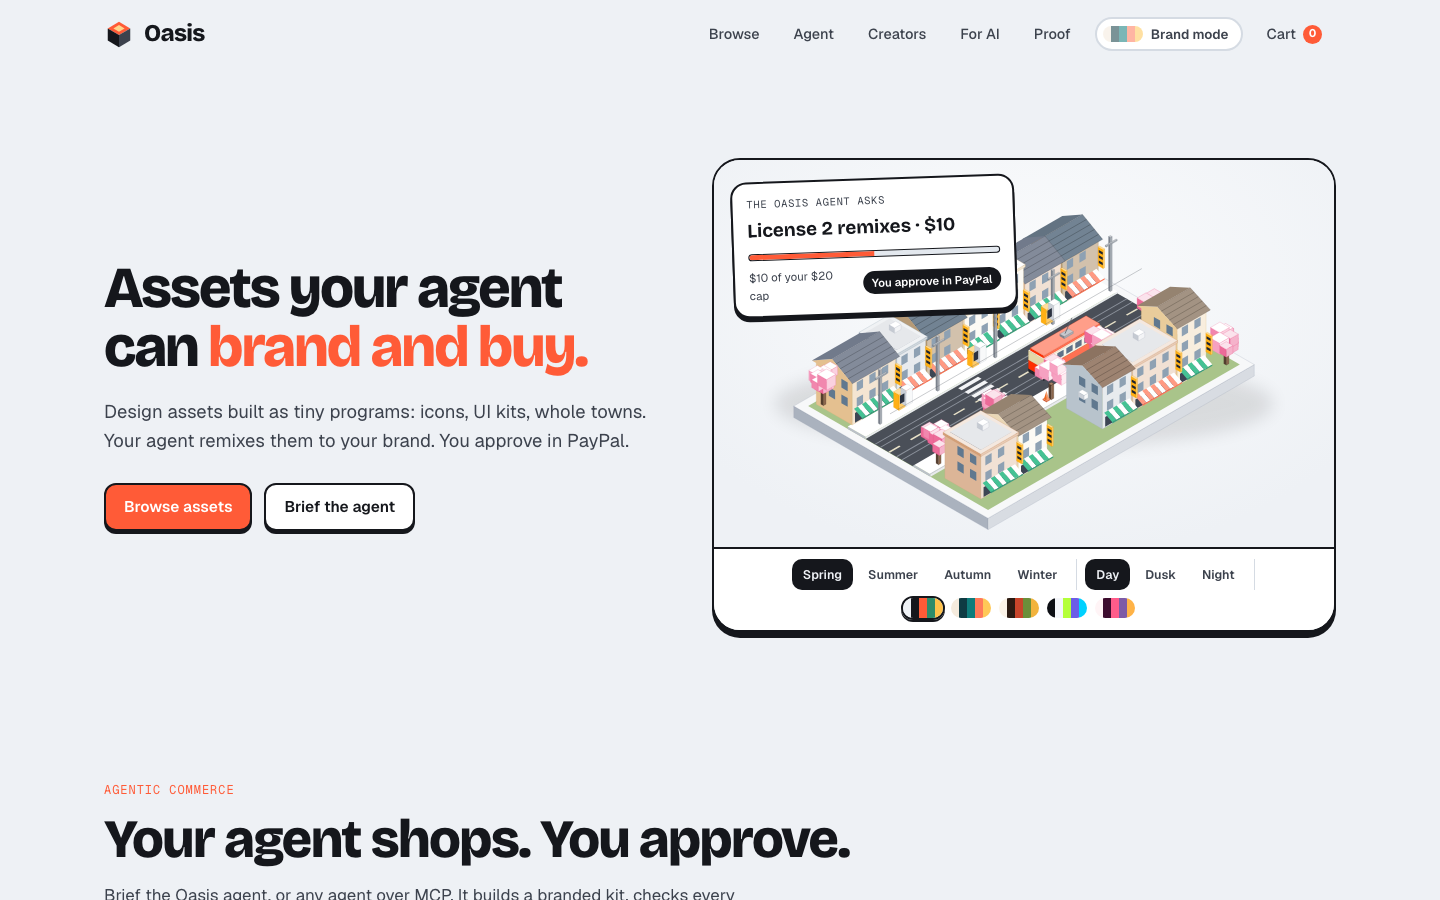
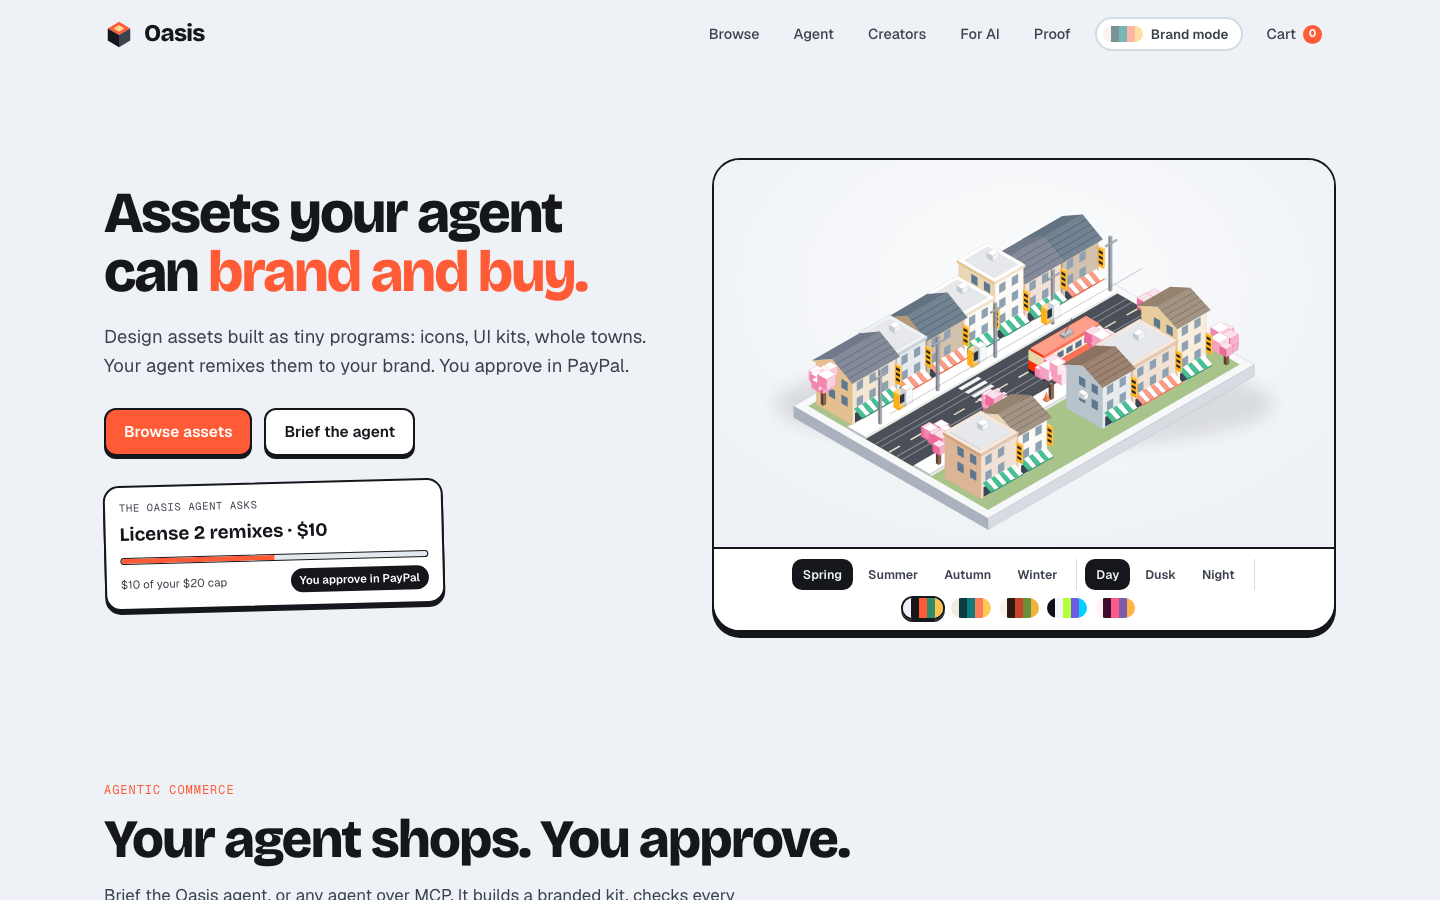
npm run sandbox-demo; pricing card copy knobs; agent replay ends at the order and can fill your cart
- scripts/sandbox-demo.mjs: mandate, refused over-budget order, approve in PayPal, capture, licensed download,
  refund revoking the licence, fork-of-a-fork Payouts batch; writes every PayPal ID to docs/SANDBOX-RUN.md
- Pricing card: tagline and comma-separated feature knobs (escaped), so a kit ships with its own copy
- Agent replay stops where the PayPal order opens; 'Add this kit to my cart' resolves the empty-cart mismatch
- PAYPAL.md: Commerce Platform split labelled future work

Changed region(s): [[0.0625, 0.2178, 0.4375, 0.6844], [0.5, 0.1867, 0.7188, 0.3733]]

diff --git a/public/app.js b/public/app.js
@@ -645,10 +645,15 @@ function pageAgent() {
     const items = replayKit || cart.items;
     const total = items.reduce((s, i) => s + i.price, 0);
     $("#kit").innerHTML = items.length
-      ? `<div class="kit${items.length >= 4 ? " compact" : ""}">${items.map((i) => `<div class="item" title="${esc(i.title)}"><img src="${esc(i.previewUrl)}" alt="${esc(i.title)}"/><div><span>${esc(i.title)}</span><b>${money(i.price)}</b></div></div>`).join("")}</div><div class="total"><span>Total</span><b>${money(total)}</b></div>${replayKit ? `<p class="muted" style="margin:10px 0 0;font-size:12.5px">A recorded run. Nothing was added to your cart.</p>` : ""}`
+      ? `<div class="kit${items.length >= 4 ? " compact" : ""}">${items.map((i) => `<div class="item" title="${esc(i.title)}"><img src="${esc(i.previewUrl)}" alt="${esc(i.title)}"/><div><span>${esc(i.title)}</span><b>${money(i.price)}</b></div></div>`).join("")}</div><div class="total"><span>Total</span><b>${money(total)}</b></div>${replayKit ? `<div class="replay-actions"><span class="muted">From a recorded run.</span><button class="btn small" id="take-kit">Add this kit to my cart</button></div>` : ""}`
       : `<div class="empty">Remixes the agent picks land here.</div>`;
   };
   drawKit();
+  $("#kit").addEventListener("click", (e) => {
+    if (!e.target.closest("#take-kit") || !replayKit) return;
+    for (const i of replayKit) cart.add({ ...i });
+    toast(`${replayKit.length} branded remixes added to your cart`);
+  });
   const add = (html, cls) => {
     const d = document.createElement("div");
     d.className = cls;
@@ -730,6 +735,13 @@ function pageAgent() {
     add(esc(rec.brief), "msg user");
     for (const [ev, data] of rec.events) {
       if (!document.body.contains(log) || run !== replayRun) return;
+      // The recording was made before this server had PayPal keys; it stops where the PayPal order opens.
+      if (ev === "tool" && data.name === "create_order") {
+        flushBot();
+        add(`<i></i>Opening a PayPal order`, "toolrow");
+        add(`<i></i>The recording stops here. In a live run the agent opens the PayPal order now, and you approve it in the Checkout panel. Nothing is charged until you do.`, "toolrow");
+        break;
+      }
       handle(ev, data);
     }
     flushBot();

diff --git a/public/styles.css b/public/styles.css
@@ -422,3 +422,4 @@ ul.plain { margin: 0; padding-left: 18px; display: grid; gap: 6px; }
 .audit { margin: 6px 0 0; padding-left: 16px; font-size: 12.5px; color: var(--ink-2); }
 .pastebrand { display: flex; gap: 8px; margin: -6px 0 18px; flex-wrap: wrap; }
 .pastebrand input { flex: 1 1 300px; border: 2px solid var(--ink); border-radius: 12px; background: var(--surface); padding: 8px 12px; font-family: var(--mono); font-size: 13.5px; }
+.replay-actions { display: flex; justify-content: space-between; align-items: center; gap: 10px; margin-top: 10px; font-size: 12.5px; }

diff --git a/judging/latest.md b/judging/latest.md
@@ -1,9 +1,9 @@
-Panel 10/1/2026, 11:54:06 PM: totals Oasis 121, R1 169, R2 121, R3 96, R4 87, R5 141
-- PayPal Developer Advocate: Oasis 30 {"tech":6,"design":8,"impact":5,"idea":6,"presentation":5}; R1 41; Oasis has the most thoughtful PayPal design in the field: server-verified capture, idempotency, signature-verified webhooks, refund-aware Payouts and a server-held mandate. But the live site reports paypalReady:false and agentReady:false, the agent page is a replay, no order has ever been captured, and the Devpost isn't submitted, so a PayPal judge cannot watch the core claim happen.
-  fixes: Put PayPal sandbox credentials on the Render deploy and run the full loop for real: create order → approval in PayPal's window → server capture → verified CHECKOUT.ORDER.APPROVED / PAYMENT.CAPTURE.COMPLETED webhook → licence → one real Payouts batch along a fork chain. Then show real order, capture, webhook and payout IDs on /#/status instead of zeros. | Turn the agent on (agentReady:true) so a judge can type a brief, set a cap and receive a live PayPal order with the agent's name and budget in the approval screen. Ship a copy-paste MCP snippet whose create_order returns a working payer-action link a judge can approve. | Submit to Devpost with a 2-minute video of that exact live flow, including a mandate refusing an over-cap order and a refund revoking a licence. Also reconcile the writeup's '29/29 tests' with the 30 that actually run. | Make the PAYPAL.md walkthrough the developer's front door, linked from the Proof page with each step tied to a real sandbox transaction. Ideally add a minimal Commerce Platform payee/platform_fees prototype so the creator split settles at capture rather than relying on deferred Payouts.
-- PayPal Engineering Manager: Oasis 27 {"tech":6,"design":7,"impact":4,"idea":6,"presentation":4}; R1 42; Oasis has the most thoughtful PayPal design in this field: server-verified capture, PayPal-Request-Id idempotency, webhook signature checks, server-held mandates and royalty holds through the refund window. But the live deploy reports paypalReady:false and agentReady:false, no sandbox order has ever been captured, the agent page is a replay, and the Devpost entry is unsubmitted, so as a payments reviewer I am grading a well-tested design against a fake PayPal client rather than a working payment flow.
-  fixes: Put PayPal sandbox credentials on the Render deploy and run real end-to-end flows. Cover create, buyer approval, server capture with amount check, the CHECKOUT.ORDER.APPROVED webhook, a refund that revokes the licence, and a sandbox Payouts batch for a fork chain. Show the real order, capture and payout IDs on /#/status. | Turn the live agent on (agentReady:true) so judges can type their own brief, set a cap, and watch the agent open a real sandbox order in PayPal's window. Keep the replay only as a labelled fallback. Also publish a short MCP walkthrough showing an external agent calling create_order with a mandate and being refused over budget. | Submit on Devpost with a 2-3 minute video of one unbroken run: brief, branded kit, PayPal approval popup, capture, licensed download. Then show the refund revoking that licence. Without the submission and a recorded real capture, the strongest claims stay unproven. | Add a small integration suite that runs against the PayPal sandbox, not only the fake client. It should cover capture race and idempotent replay, the pending-capture to completed webhook path, and the mandate double-spend race. Run it in CI and link the results. Also fix stale numbers in the writeup, such as 29/29 tests when the repo now runs 30.
-- PayPal Senior Product Manager: Oasis 31 {"tech":7,"design":8,"impact":4,"idea":7,"presentation":5}; R1 43; Oasis is a polished, coherent, honestly documented store, and its 'agent creates the order, human approves in PayPal, server enforces the mandate' primitive is exactly right for agentic commerce, but it is a Polyfork-shaped product that ships no live PayPal transaction, no live agent and zero users, and it has not been submitted yet, so it loses to a winner with $4,428 in real revenue and to Countersign's deeper spend-control plane.
-  fixes: Put PayPal sandbox keys on the live deploy (paypalReady is currently false) and run the full path end to end at least a dozen times: brief, mandate, create_order, payer-action approval, server capture, webhook, licensed download, and one fork-chain Payouts batch. Publish the real order IDs, captures and payout items on /#/status, and record a 2-minute video of it. For a PayPal judge, a zero-capture payments story is the single biggest hole. | Turn the live agent on (agentReady is currently false) with a rate-limited, small-cap free tier so judges can brief it themselves. A recorded replay labelled 'nothing here is staged' still asks me to take your word for it. | Get outside evidence before judging. Put the agent and the MCP endpoint in front of 10 to 20 real builders (Lovable, v0 or Claude users) and report the numbers: briefs completed, kits approved versus abandoned at the PayPal step, mandate-cap hits, external MCP calls and keys, and any paid licences. Even small numbers beat none when the reference project has 54 paying customers. | Submit on Devpost and lead with the differentiator, not the Polyfork parallel. Open with the agent-mandate approval flow, showing the PayPal approval screen that names the agent and its cap, plus the fork royalty split. Move the asset catalogue to second billing, and fix small inconsistencies such as 29/29 tests in the write-up versus 30/30 verified.
-- Sponsor developer-relations engineer (hosting platform): Oasis 33 {"tech":7,"design":8,"impact":6,"idea":7,"presentation":5}; R1 43; Oasis is the best-crafted storefront in this field and its agent-creates, human-approves, server-enforces-the-cap model is the right shape for agentic commerce, but in a PayPal hackathon the live deploy has paypalReady:false and agentReady:false, the agent page is a recorded replay, no order has ever been captured, and the Devpost entry isn't submitted, so its central claim remains unproven next to Polyfork's real revenue and Countersign's depth.
-  fixes: Put PayPal sandbox keys on the live Render deploy and run one real sandbox order end to end: the agent creates the order, a human approves it in PayPal's window, the server captures it, licensed downloads are issued, and a Payouts batch goes to a fork chain. Then make /#/status show non-zero captured orders, verified webhooks and payouts instead of results from a fake client. | Turn the live agent on (agentReady:true) behind a rate limit or a small per-visitor budget so judges can brief it themselves. Keep the replay as a fallback, and fill the large empty chat area with the agent's render-and-reject steps so its self-critique is visible. | Submit on Devpost with a 2-3 minute video of that real flow: brief, branded kit, PayPal approval screen showing the agent name and cap, capture, download, and the $6/$2/$1/$1 royalty split. Add a short clip of a third-party agent (for example Claude Desktop over /mcp) hitting the mandate cap and being refused by the server. | Tighten the details: reconcile the 29 tests in the README with the 30 that run, fix the awkward 'cap' wrap in the hero card and the cut-off checkout panel, and reposition the pitch away from 'Polyfork for 2D'. Lead with Brand Mode, server-held spending mandates and fork royalties as the parts Polyfork doesn't have.
+Panel 10/1/2026, 11:59:52 PM: totals Oasis 116, R1 165, R2 120, R3 100, R4 90, R5 142
+- PayPal Developer Advocate: Oasis 28 {"tech":6,"design":7,"impact":4,"idea":6,"presentation":5}; R1 41; Oasis has one of the most correct PayPal designs I've read (server-priced Orders v2, verified capture with auto-refund on mismatch, PayPal-Request-Id idempotency, signature-verified webhooks, Payouts held past the refund window, a server-held mandate), but today it runs on paper: paypalReady and agentReady are both false, the agent page's showcase is a recorded run ending in 'PayPal sandbox credentials are not configured', zero orders have been captured, it is a self-described Polyfork derivative, and it isn't submitted.
+  fixes: Put PayPal sandbox credentials and the Claude key on Render and run one real flow end to end: the agent creates the order, a human approves in PayPal's window, the server captures, the CHECKOUT.ORDER.APPROVED and PAYMENT.CAPTURE.COMPLETED webhooks are verified, and the licensed download is delivered. Then make /#/status show real order and capture IDs, and replace the recorded error transcript on the Agent page with that successful live run. | Prove the money graph rather than describing it. Sell a fork of a fork in sandbox, show the Payouts batch and the PAYMENT.PAYOUTS-ITEM.SUCCEEDED events for all three creators, and show a refund revoking the licence and cancelling the held payout. Better still, move the split to Commerce Platform multiparty now (per-unit payee plus platform_fees), since that is the correct marketplace primitive and what Payouts is standing in for. | Submit on Devpost with a 2–3 minute live video. It should show an external MCP client calling create_order, the payer-action link opening PayPal with the agent's name and mandate visible on the approval screen, the cap refusing an over-budget order, and get_order returning downloads. | Turn PAYPAL.md into something a developer can learn from and reuse. Add a one-command sandbox setup (env template, webhook registration script, test buyer account), a standalone minimal 'agent creates, human approves, server captures under a mandate' example lifted out of the store, and screenshots of each PayPal screen. This is the pattern PayPal would actually point other developers to, and it is what sets Oasis apart from Polyfork.
+- PayPal Engineering Manager: Oasis 29 {"tech":6,"design":7,"impact":5,"idea":6,"presentation":5}; R1 41; Oasis has the right payment design on paper: server-verified capture, PayPal-Request-Id idempotency, verified webhooks, server-held mandates and payouts held through the refund window, all covered by 30 passing tests, but the live deploy reports paypalReady:false and agentReady:false, no order has ever been captured, and the agent's showcase transcript ends with 'PayPal sandbox credentials are not configured', so the core claim of a PayPal hackathon entry is untested against PayPal itself and the store reads as a Polyfork reskin.
+  fixes: Put PayPal sandbox client ID and secret plus the Anthropic key on Render, then run the full flow live: agent brief, mandate, Orders v2 create, buyer approval, server-side capture, licensed download. Replace the recorded failed transcript with that successful run and make /#/status show nonzero captured orders and verified webhooks. | Run the money-movement paths against the real sandbox rather than only the fake client: a fork-of-a-fork sale that sends a real Payouts batch (600/200/100/100 cents), a refund that revokes the licence and cancels the held royalty, and a deliberately replayed webhook that is ignored. Publish the sandbox order, capture and payout IDs in PROOF.md. | Submit to Devpost with a 2–3 minute video showing an external MCP client (for example Claude Desktop hitting /mcp) creating an order under a human-issued mandate. Include a second order that the server rejects for exceeding the cap, and the human approving the valid order in PayPal's own window with the agent's name and budget visible. | Add a CI integration suite that runs nightly against the PayPal sandbox, covering create, capture, the amount-mismatch auto-refund, the webhook signature check and a Payouts status poll. Sharpen the pitch around the agent-proposes, human-approves, server-caps mandate, which is the part Polyfork doesn't have, instead of the parametric-asset store, which is largely Polyfork's idea in 2D.
+- PayPal Senior Product Manager: Oasis 28 {"tech":7,"design":7,"impact":4,"idea":6,"presentation":4}; R1 41; Oasis has the strongest PayPal design on paper (Orders v2, verified webhooks, idempotency, server-held mandates, Payouts royalties, 30 passing tests) and a polished, coherent store, but it is unsubmitted, has no users, has never captured a single order (paypalReady and agentReady are both false), and its showcase agent run ends in 'PayPal sandbox credentials are not configured', so its main feature is unproven in a payments hackathon.
+  fixes: Configure PayPal sandbox and Claude keys on the live deploy. Run the full loop for real: brief, agent cart, PayPal approval window showing the agent's name and cap, server capture, licensed download, then a Payouts batch along a fork chain. Replace the recorded run that ends in an error with that success, and make /#/status show nonzero orders, webhooks and payouts. | Get real external evidence before judging, even if it is small. Examples: a handful of non-team buyers, MCP calls from outside agents (Claude Desktop or Cursor users hitting /mcp), and one creator fork that earns a royalty. Report it the way Polyfork does, with related-party activity excluded. | Submit on Devpost with a 2-minute video built around the approval moment. Show the agent proposing the order, the human approving it in PayPal, a second order that tries to exceed the mandate being refused by the server, and the kill switch freezing the mandate. That is the agentic-commerce primitive PayPal cares about. | Reposition the story so it is not 'Polyfork for 2D'. Lead the homepage and pitch with the mandate-plus-human-approval checkout for agents, framed as a pattern other merchants could adopt, and treat the asset store as the proof case. Add a concrete buyer persona and unit economics: who buys $5 remixes, how often, and why instead of generating images.
+- Sponsor developer-relations engineer (hosting platform): Oasis 31 {"tech":7,"design":8,"impact":5,"idea":6,"presentation":5}; R1 42; Oasis is a beautifully crafted, unusually honest and well-tested Polyfork-for-2D with a smart agent-proposes, human-approves PayPal model, but on a PayPal hackathon the live site has PayPal and the agent switched off (paypalReady:false, agentReady:false), its own agent screenshot ends in a 'credentials not configured' error, no order has ever been captured, and the Devpost isn't submitted, so the core claim is unproven where it matters most.
+  fixes: Put PayPal sandbox keys and the agent key on the live Render deploy, then run one real flow: agent brief, PayPal approval window, server capture, licensed download, and a Payouts royalty batch along a fork chain. /#/status should show non-zero captured orders, verified webhooks and payouts. Replace the failing agent recording with that successful run. | Submit the Devpost with a tight 2–3 minute video that shows the full loop live. Include the PayPal approval screen with the agent's name and mandate, the mandate refusing an over-cap order, and the kill switch. Lead the gallery with that, not the static hero. | Make the difference from Polyfork obvious above the fold. Open with paste-your-brand reskinning the whole catalogue and the mandate/approval card, not an isometric town diorama that reads as a Polyfork homage. Add a one-line 'what Polyfork doesn't do' (brand roles, human-approved PayPal orders, fork royalties). | Get outside proof beyond your own tests. Publish a copy-paste MCP config for Claude Desktop and Cursor, log and show third-party search_assets and create_order calls on the status page, and onboard a few outside creators whose forks earn sandbox royalties. The fake-client test suite alone won't convince judges.

diff --git a/PAYPAL.md b/PAYPAL.md
@@ -99,7 +99,7 @@ and released by `releaseDuePayouts()` (run hourly) only once the order is past t
 `COMPLETED`. A refund inside the window cancels the hold, so a creator is never paid on a refunded sale (tested:
 *a refund inside the window cancels held royalties*). The batch is idempotent on `sender_batch_id = oasis-<orderId>`.
 
-**Production path.** Payouts suits a hackathon marketplace with a few creators. At scale the right tool is **PayPal
+**Production path (future work, not built).** Payouts suits a hackathon marketplace with a few creators. At scale the right tool is **PayPal
 Commerce Platform**: onboard each creator as a seller, and split at capture with `payee` per purchase unit plus a
 `platform_fees` entry, so refunds unwind the split automatically. The split function already produces the
 per-party amounts that call needs.
@@ -130,6 +130,17 @@ get a 400; tested). Then:
 The live deploy lists every order, verified webhook and payout it has produced, with real sandbox IDs, at
 [`/#/status`](https://oasis-design.onrender.com/#/status). Until the sandbox keys are set there, those lists are empty
 and everything above is proven only by `test/commerce.test.mjs` against a fake client.
+
+## One command against the real sandbox
+
+```bash
+npm run sandbox-demo
+```
+
+`scripts/sandbox-demo.mjs` starts its own Oasis on port 8788 with a shortened refund window and walks the whole path
+against PayPal: a mandate, an over-budget order refused, an agent order you approve in PayPal's window, capture and a
+licensed download, a refund that revokes the licence and returns the budget, and a fork-of-a-fork sale whose royalties
+go out as a real Payouts batch. Every PayPal ID lands in [`docs/SANDBOX-RUN.md`](docs/SANDBOX-RUN.md).
 
 ## Sandbox quickstart (about five minutes)
 

diff --git a/SUBMISSION.md b/SUBMISSION.md
@@ -21,7 +21,7 @@ finish**. That second piece is what PayPal's order approval already is.
 ## What it does
 
 **Oasis is a store of design assets where nothing is finished.** Every asset is an ES module: typed knobs in, SVG out.
-67 assets (64 built-in programs and 3 AI forks) with 671 knobs, from pricing cards and phone mockups to Bauhaus posters and Oasis Town,
+67 assets (64 built-in programs and 3 AI forks) with 673 knobs, from pricing cards and phone mockups to Bauhaus posters and Oasis Town,
 an isometric street diorama that rebuilds as you turn its knobs.
 
 ![Change it after you find it](https://raw.githubusercontent.com/machmoon/oasis/main/docs/figures/01-rebuilt-not-stretched.png)
